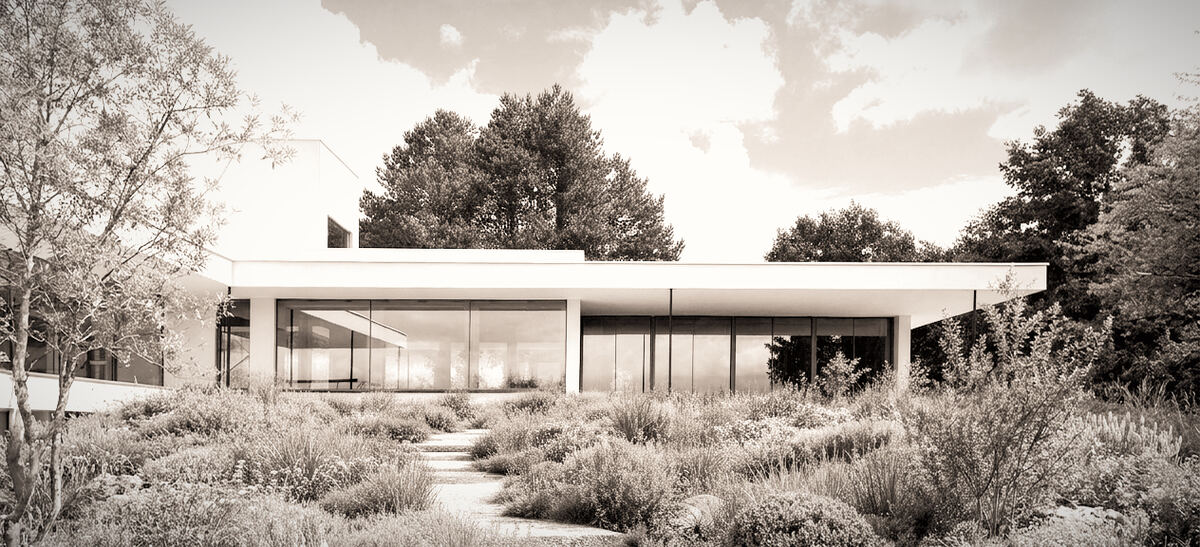
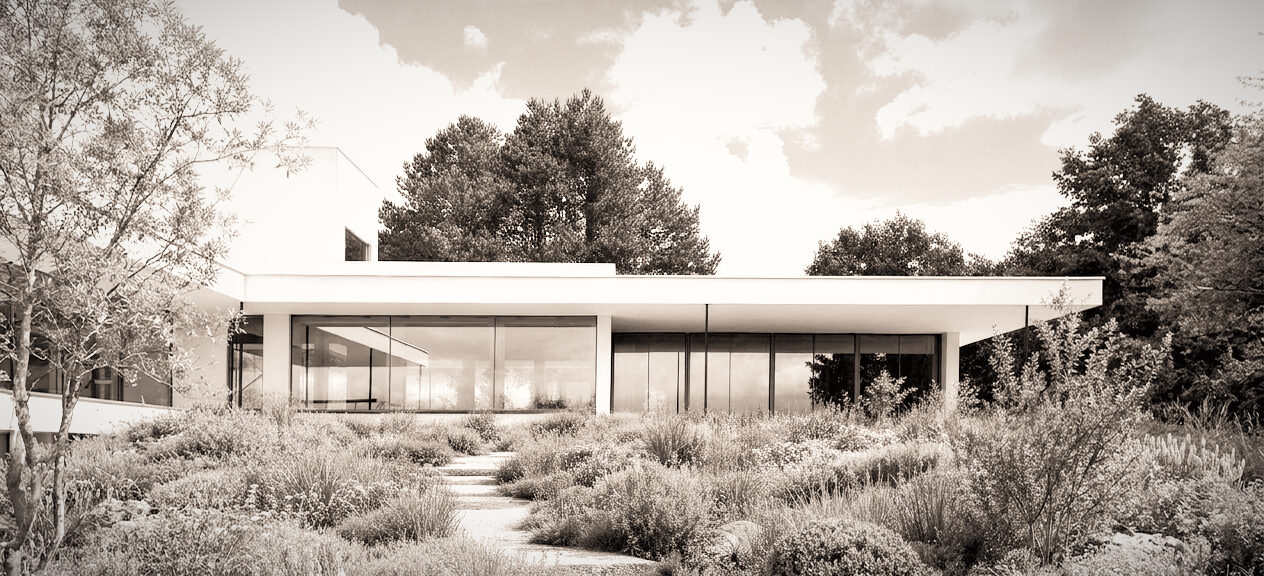
Références : même présentation par projet sur Patrimoine et MOEX, photos d'origine

diff --git a/moex.html b/moex.html
@@ -42,40 +42,142 @@
   </div>
 </main>
 
-<section class="section">
-  <div class="wide-image reveal"><img src="assets/img/wide-chantier-eiffel.jpg" alt="Chantier en cours dans la structure métallique de la Tour Eiffel, réseaux et plafonds en attente" loading="lazy"></div>
-</section>
-
 <section class="section" id="references">
   <div class="section-head reveal">
     <h2>Références</h2>
-    <div class="mono"><span>Direction de chantier</span><span>Livré</span></div>
+    <div class="mono section-meta"><span>Maison Variel — Restructuration d'un bâtiment de bureaux des années 70 en maison individuelle BBC</span><span class="meta-line"><span class="nb">Concepteurs : Alveare Patrimoine</span> · <span class="nb">Direction de travaux / économie : Alveare MOEX</span> · <span class="nb">Livré</span></span></div>
   </div>
-  <div class="work-grid reveal">
-    <div class="work-tile tile-static">
-  <img src="assets/img/ref-variel.jpg" alt="Maison contemporaine blanche, Maison Variel" loading="lazy">
-  <span class="tile-num">[ 01 ]</span><span class="tile-tags">Maison Variel</span><span class="tile-sub">Restructuration d'un bâtiment de bureaux des années 70 en maison individuelle BBC · Architectes : Alveare Architecture · MOA privée</span>
+  <div class="work-rows reveal">
+    <div class="work-row">
+      <div class="work-tile tile-static" style="--ar:1/1">
+  <img src="assets/img/ref-variel.jpg" alt="Maison contemporaine blanche aux larges baies vitrées dans un jardin de graminées" loading="lazy">
+  <span class="tile-num">[ 01 ]</span><span class="tile-tags">Maison Variel</span>
 </div>
-    <div class="work-tile tile-static">
-  <img src="assets/img/ref-champagne.jpg" alt="Bar à champagne au sommet de la Tour Eiffel, enseigne lumineuse" loading="lazy">
-  <span class="tile-num">[ 02 ]</span><span class="tile-tags">Bar à champagne · 3e étage Tour Eiffel</span><span class="tile-sub">Concepteur : RF Studio · Direction de chantier : Alveare MOEX · MOA : Sodexo</span>
+      <div class="work-tile tile-static" style="--ar:4/3">
+  <img src="assets/img/ref-variel-3.jpg" alt="Chantier de la Maison Variel : ossature métallique et aciers en attente, soudure en cours" loading="lazy">
+  <span class="tile-num">[ 02 ]</span><span class="tile-tags">Maison Variel</span>
 </div>
-    <div class="work-tile tile-static">
-  <img src="assets/img/ref-bistro.jpg" alt="Salle du Bistro au premier étage de la Tour Eiffel, lames de bois et lumière colorée" loading="lazy">
-  <span class="tile-num">[ 03 ]</span><span class="tile-tags">Bistro · 1er étage Tour Eiffel</span><span class="tile-sub">Concepteur : RF Studio · Direction de chantier : Alveare MOEX · MOA : Sodexo</span>
+    </div>
+    <div class="work-row">
+      <div class="work-tile tile-static" style="--ar:1264/576">
+  <img src="assets/img/ref-variel-2.jpg" alt="Façade vitrée de la Maison Variel sous un toit-terrasse débordant, jardin de graminées au premier plan" loading="lazy">
+  <span class="tile-num">[ 03 ]</span><span class="tile-tags">Maison Variel</span>
 </div>
-    <div class="work-tile tile-static">
-  <img src="assets/img/ref-brasserie.jpg" alt="Salle de Madame Brasserie, tapisserie rayée et vue sur Paris" loading="lazy">
-  <span class="tile-num">[ 04 ]</span><span class="tile-tags">Madame Brasserie · 1er étage Tour Eiffel</span><span class="tile-sub">Concepteur : RF Studio · Direction de chantier : Alveare MOEX · MOA : Sodexo</span>
+    </div>
+  </div>
+</section>
+
+<section class="section" id="reference-champagne">
+  <div class="section-head section-head-sub reveal">
+    <div class="mono section-meta"><span>Bar à champagne — 3e étage de la Tour Eiffel</span><span class="meta-line"><span class="nb">Concepteurs : RF Studio</span> · <span class="nb">Direction de travaux / économie : Alveare MOEX</span> · <span class="nb">Livré</span></span></div>
+  </div>
+  <div class="work-rows reveal">
+    <div class="work-row">
+      <div class="work-tile tile-static" style="--ar:1980/1133">
+  <img src="assets/img/ref-champagne-1.jpg" alt="Bar à champagne au sommet de la Tour Eiffel, enseigne lumineuse et visiteurs au coucher du soleil" loading="lazy">
+  <span class="tile-num">[ 01 ]</span><span class="tile-tags">Bar à champagne · Tour Eiffel</span>
 </div>
-    <div class="work-tile tile-static">
-  <img src="assets/img/ref-brasserie-2.jpg" alt="Chantier de Madame Brasserie, oculus et poutrelles de la Tour Eiffel" loading="lazy">
-  <span class="tile-num">[ 05 ]</span><span class="tile-tags">Madame Brasserie · chantier</span><span class="tile-sub">Suivi d'exécution et contrôle de conformité</span>
+      <div class="work-tile tile-static" style="--ar:1920/1080">
+  <img src="assets/img/ref-champagne-2.jpg" alt="Comptoir du bar à champagne, barman et enseigne « Champagne ! »" loading="lazy">
+  <span class="tile-num">[ 02 ]</span><span class="tile-tags">Bar à champagne · Tour Eiffel</span>
 </div>
-    <div class="work-tile tile-static">
-  <img src="assets/img/ref-brasserie-3.jpg" alt="Pose de panneaux acoustiques par deux compagnons sur le chantier de Madame Brasserie" loading="lazy">
-  <span class="tile-num">[ 06 ]</span><span class="tile-tags">Madame Brasserie · chantier</span><span class="tile-sub">Ordonnancement et coordination des corps d'état</span>
+    </div>
+  </div>
+</section>
+
+<section class="section" id="reference-bistro">
+  <div class="section-head section-head-sub reveal">
+    <div class="mono section-meta"><span>Bistro — 1er étage de la Tour Eiffel</span><span class="meta-line"><span class="nb">Concepteurs : RF Studio</span> · <span class="nb">Direction de travaux / économie : Alveare MOEX</span> · <span class="nb">Livré</span></span></div>
+  </div>
+  <div class="work-rows reveal">
+    <div class="work-row">
+      <div class="work-tile tile-static" style="--ar:1280/1920">
+  <img src="assets/img/ref-bistro-1.jpg" alt="Enseigne lumineuse du Bistro et vitrine, lames de bois" loading="lazy">
+  <span class="tile-num">[ 01 ]</span><span class="tile-tags">Bistro · Tour Eiffel</span>
 </div>
+      <div class="work-tile tile-static" style="--ar:1980/1320">
+  <img src="assets/img/ref-bistro-2.jpg" alt="Salle du Bistro au premier étage de la Tour Eiffel, tables hautes et panneaux lumineux" loading="lazy">
+  <span class="tile-num">[ 02 ]</span><span class="tile-tags">Bistro · Tour Eiffel</span>
+</div>
+      <div class="work-tile tile-static" style="--ar:1280/1920">
+  <img src="assets/img/ref-bistro-3.jpg" alt="Tables du Bistro devant le panneau lumineux dégradé" loading="lazy">
+  <span class="tile-num">[ 03 ]</span><span class="tile-tags">Bistro · Tour Eiffel</span>
+</div>
+    </div>
+    <div class="work-row">
+      <div class="work-tile tile-static" style="--ar:1280/1920">
+  <img src="assets/img/ref-bistro-5.jpg" alt="Vitrine réfrigérée et comptoir du Bistro" loading="lazy">
+  <span class="tile-num">[ 04 ]</span><span class="tile-tags">Bistro · Tour Eiffel</span>
+</div>
+      <div class="work-tile tile-static" style="--ar:1280/1080">
+  <img src="assets/img/ref-bistro-4.jpg" alt="Volume courbe en lames de bois et vue sur la structure de la Tour" loading="lazy">
+  <span class="tile-num">[ 05 ]</span><span class="tile-tags">Bistro · Tour Eiffel</span>
+</div>
+      <div class="work-tile tile-static" style="--ar:1280/1920">
+  <img src="assets/img/ref-bistro-6.jpg" alt="Table haute du Bistro devant la paroi décorée et la structure métallique" loading="lazy">
+  <span class="tile-num">[ 06 ]</span><span class="tile-tags">Bistro · Tour Eiffel</span>
+</div>
+    </div>
+  </div>
+</section>
+
+<section class="section" id="reference-brasserie">
+  <div class="section-head section-head-sub reveal">
+    <div class="mono section-meta"><span>Madame Brasserie — 1er étage de la Tour Eiffel</span><span class="meta-line"><span class="nb">Concepteurs : RF Studio</span> · <span class="nb">Direction de travaux / économie : Alveare MOEX</span> · <span class="nb">Livré</span></span></div>
+  </div>
+  <div class="work-rows reveal">
+    <div class="work-row">
+      <div class="work-tile tile-static" style="--ar:1920/1280">
+  <img src="assets/img/ref-brasserie-01.jpg" alt="Pose des panneaux acoustiques par deux compagnons sur le chantier de Madame Brasserie" loading="lazy">
+  <span class="tile-num">[ 01 ]</span><span class="tile-tags">Madame Brasserie · Tour Eiffel</span>
+</div>
+      <div class="work-tile tile-static" style="--ar:1280/1920">
+  <img src="assets/img/ref-brasserie-05.jpg" alt="Oculus et corniche lumineuse de Madame Brasserie" loading="lazy">
+  <span class="tile-num">[ 02 ]</span><span class="tile-tags">Madame Brasserie · Tour Eiffel</span>
+</div>
+      <div class="work-tile tile-static" style="--ar:1280/1600">
+  <img src="assets/img/ref-brasserie-06.jpg" alt="Table dressée devant la structure de la Tour Eiffel" loading="lazy">
+  <span class="tile-num">[ 03 ]</span><span class="tile-tags">Madame Brasserie · Tour Eiffel</span>
+</div>
+    </div>
+    <div class="work-row">
+      <div class="work-tile tile-static" style="--ar:1920/1125">
+  <img src="assets/img/ref-brasserie-04.jpg" alt="Chantier de Madame Brasserie : oculus, réseaux et plafonds en attente" loading="lazy">
+  <span class="tile-num">[ 04 ]</span><span class="tile-tags">Madame Brasserie · Tour Eiffel</span>
+</div>
+      <div class="work-tile tile-static" style="--ar:1280/1920">
+  <img src="assets/img/ref-brasserie-07.jpg" alt="Table en fenêtre, fauteuils bleus et vue sur Paris au coucher du soleil" loading="lazy">
+  <span class="tile-num">[ 05 ]</span><span class="tile-tags">Madame Brasserie · Tour Eiffel</span>
+</div>
+      <div class="work-tile tile-static" style="--ar:1280/1920">
+  <img src="assets/img/ref-brasserie-08.jpg" alt="Passe-plat de la cuisine ouverte, parois en lames de bois" loading="lazy">
+  <span class="tile-num">[ 06 ]</span><span class="tile-tags">Madame Brasserie · Tour Eiffel</span>
+</div>
+    </div>
+    <div class="work-row">
+      <div class="work-tile tile-static" style="--ar:1920/1440">
+  <img src="assets/img/ref-brasserie-03.jpg" alt="Planche de matériaux et échantillons de Madame Brasserie" loading="lazy">
+  <span class="tile-num">[ 07 ]</span><span class="tile-tags">Madame Brasserie · Tour Eiffel</span>
+</div>
+      <div class="work-tile tile-static" style="--ar:1280/1920">
+  <img src="assets/img/ref-brasserie-09.jpg" alt="Banquette et tapisserie rayée de Madame Brasserie" loading="lazy">
+  <span class="tile-num">[ 08 ]</span><span class="tile-tags">Madame Brasserie · Tour Eiffel</span>
+</div>
+      <div class="work-tile tile-static" style="--ar:1536/1920">
+  <img src="assets/img/ref-brasserie-11.jpg" alt="Escalier et desk d'accueil de Madame Brasserie" loading="lazy">
+  <span class="tile-num">[ 09 ]</span><span class="tile-tags">Madame Brasserie · Tour Eiffel</span>
+</div>
+    </div>
+    <div class="work-row">
+      <div class="work-tile tile-static" style="--ar:1920/1280">
+  <img src="assets/img/ref-brasserie-10.jpg" alt="Salle de Madame Brasserie, tapisserie rayée et service en cours" loading="lazy">
+  <span class="tile-num">[ 10 ]</span><span class="tile-tags">Madame Brasserie · Tour Eiffel</span>
+</div>
+      <div class="work-tile tile-static" style="--ar:1200/800">
+  <img src="assets/img/ref-brasserie-02.jpg" alt="Salle de Madame Brasserie, fauteuils bleus et vue sur Paris" loading="lazy">
+  <span class="tile-num">[ 11 ]</span><span class="tile-tags">Madame Brasserie · Tour Eiffel</span>
+</div>
+    </div>
   </div>
 </section>
 

diff --git a/patrimoine.html b/patrimoine.html
@@ -47,35 +47,45 @@
     <h2>Références</h2>
     <div class="mono section-meta"><span>Restructuration complète du Pilier Nord — Tour Eiffel</span><span class="meta-line"><span class="nb">Concepteurs : Alveare Patrimoine</span> · <span class="nb">Direction de travaux / économie : Alveare MOEX</span> · <span class="nb">Livré</span></span></div>
   </div>
-  <div class="work-grid pilier reveal">
-    <div class="work-tile tile-static">
+  <div class="work-rows reveal">
+    <div class="work-row">
+      <div class="work-tile tile-static" style="--ar:3616/3000">
   <img src="assets/img/ref-pilier-nord.jpg" alt="Billetterie du pilier Nord de la Tour Eiffel" loading="lazy">
   <span class="tile-num">[ 01 ]</span><span class="tile-tags">Pilier Nord · Tour Eiffel</span>
 </div>
-    <div class="work-tile tile-static">
+      <div class="work-tile tile-static" style="--ar:2334/3200">
   <img src="assets/img/ref-pilier-nord-2.jpg" alt="Intérieur rénové du pilier Nord, volumes blancs et baies vitrées" loading="lazy">
   <span class="tile-num">[ 02 ]</span><span class="tile-tags">Pilier Nord · Tour Eiffel</span>
 </div>
-    <div class="work-tile tile-static">
+      <div class="work-tile tile-static" style="--ar:2318/3788">
   <img src="assets/img/ref-pilier-nord-3.jpg" alt="Comptoir en bois et laiton, menuiseries intérieures du pilier Nord" loading="lazy">
   <span class="tile-num">[ 03 ]</span><span class="tile-tags">Pilier Nord · Tour Eiffel</span>
 </div>
+    </div>
   </div>
 </section>
 
 <section class="section" id="reference-variel">
   <div class="section-head section-head-sub reveal">
-    <div class="mono section-meta"><span>Maison Variel — Restructuration d'un bâtiment de bureaux des années 70 en maison individuelle BBC</span><span class="meta-line"><span class="nb">Architectes : Alveare Architecture</span> · <span class="nb">Maîtrise d'ouvrage privée</span></span></div>
+    <div class="mono section-meta"><span>Maison Variel — Restructuration d'un bâtiment de bureaux des années 70 en maison individuelle BBC</span><span class="meta-line"><span class="nb">Concepteurs : Alveare Patrimoine</span> · <span class="nb">Direction de travaux / économie : Alveare MOEX</span> · <span class="nb">Livré</span></span></div>
   </div>
-  <div class="work-grid variel reveal">
-    <div class="work-tile tile-static">
+  <div class="work-rows reveal">
+    <div class="work-row">
+      <div class="work-tile tile-static" style="--ar:1/1">
   <img src="assets/img/ref-variel.jpg" alt="Maison contemporaine blanche aux larges baies vitrées dans un jardin de graminées" loading="lazy">
   <span class="tile-num">[ 01 ]</span><span class="tile-tags">Maison Variel</span>
 </div>
-    <div class="work-tile tile-static">
-  <img src="assets/img/ref-variel-2.jpg" alt="Façade vitrée de la Maison Variel sous un toit-terrasse débordant, jardin de graminées au premier plan" loading="lazy">
+      <div class="work-tile tile-static" style="--ar:4/3">
+  <img src="assets/img/ref-variel-3.jpg" alt="Chantier de la Maison Variel : ossature métallique et aciers en attente, soudure en cours" loading="lazy">
   <span class="tile-num">[ 02 ]</span><span class="tile-tags">Maison Variel</span>
 </div>
+    </div>
+    <div class="work-row">
+      <div class="work-tile tile-static" style="--ar:1264/576">
+  <img src="assets/img/ref-variel-2.jpg" alt="Façade vitrée de la Maison Variel sous un toit-terrasse débordant, jardin de graminées au premier plan" loading="lazy">
+  <span class="tile-num">[ 03 ]</span><span class="tile-tags">Maison Variel</span>
+</div>
+    </div>
   </div>
 </section>
 

diff --git a/style.css b/style.css
@@ -552,16 +552,11 @@ form.contact-form { max-width: 620px; }
 
 .section-head-sub { padding-top: 40px; justify-content: flex-end; }
 
-/* Maison Variel : image carrée + image panoramique, sans recadrage */
-.work-grid.variel { grid-template-columns: 1fr 2.19fr; }
-.work-grid.variel .work-tile:first-child { aspect-ratio: 1 / 1; }
-.work-grid.variel .work-tile:last-child { aspect-ratio: 1200 / 547; }
-@media (max-width: 639px) { .work-grid.variel { grid-template-columns: 1fr; } }
-
-/* Pilier Nord : trois photos au format d'origine, hauteur commune */
-.work-grid.pilier { grid-template-columns: 1.205fr 0.729fr 0.612fr; }
-.work-grid.pilier .work-tile:nth-child(1) { aspect-ratio: 3616 / 3000; }
-.work-grid.pilier .work-tile:nth-child(2) { aspect-ratio: 2334 / 3200; }
-.work-grid.pilier .work-tile:nth-child(3) { aspect-ratio: 2318 / 3788; }
-@media (max-width: 900px) { .work-grid.pilier { grid-template-columns: 1fr 1fr; } .work-grid.pilier .work-tile:nth-child(1) { grid-column: 1 / -1; } }
-@media (max-width: 639px) { .work-grid.pilier { grid-template-columns: 1fr; } .work-grid.pilier .work-tile:nth-child(1) { grid-column: auto; } }
+/* Références : lignes de photos au format d'origine, hauteur commune par ligne */
+.work-rows { display: flex; flex-direction: column; gap: 4px; width: 100%; }
+.work-row { display: flex; gap: 4px; }
+.work-row .work-tile { flex: var(--ar) 1 0; aspect-ratio: var(--ar); min-width: 0; }
+@media (max-width: 639px) {
+  .work-row { flex-direction: column; }
+  .work-row .work-tile { flex: none; width: 100%; }
+}

diff --git a/index.html b/index.html
@@ -87,7 +87,7 @@
   <img src="assets/img/ref-pilier-nord.jpg" alt="Billetterie du pilier Nord de la Tour Eiffel après restructuration" loading="lazy">
   <span class="tile-num">[ 01 ]</span><span class="tile-tags">Pilier Nord<br>Tour Eiffel</span><span class="tile-sub">Restructuration complète · Alveare Patrimoine &amp; MOEX</span><span class="tile-arrow" aria-hidden="true">↗</span>
 </a>
-    <a class="work-tile" href="moex.html#references">
+    <a class="work-tile" href="moex.html#reference-brasserie">
   <img src="assets/img/ref-brasserie.jpg" alt="Salle de restaurant Madame Brasserie au premier étage de la Tour Eiffel" loading="lazy">
   <span class="tile-num">[ 02 ]</span><span class="tile-tags">Madame Brasserie<br>Tour Eiffel</span><span class="tile-sub">Direction de chantier · Concepteur RF Studio · MOA Sodexo</span><span class="tile-arrow" aria-hidden="true">↗</span>
 </a>
